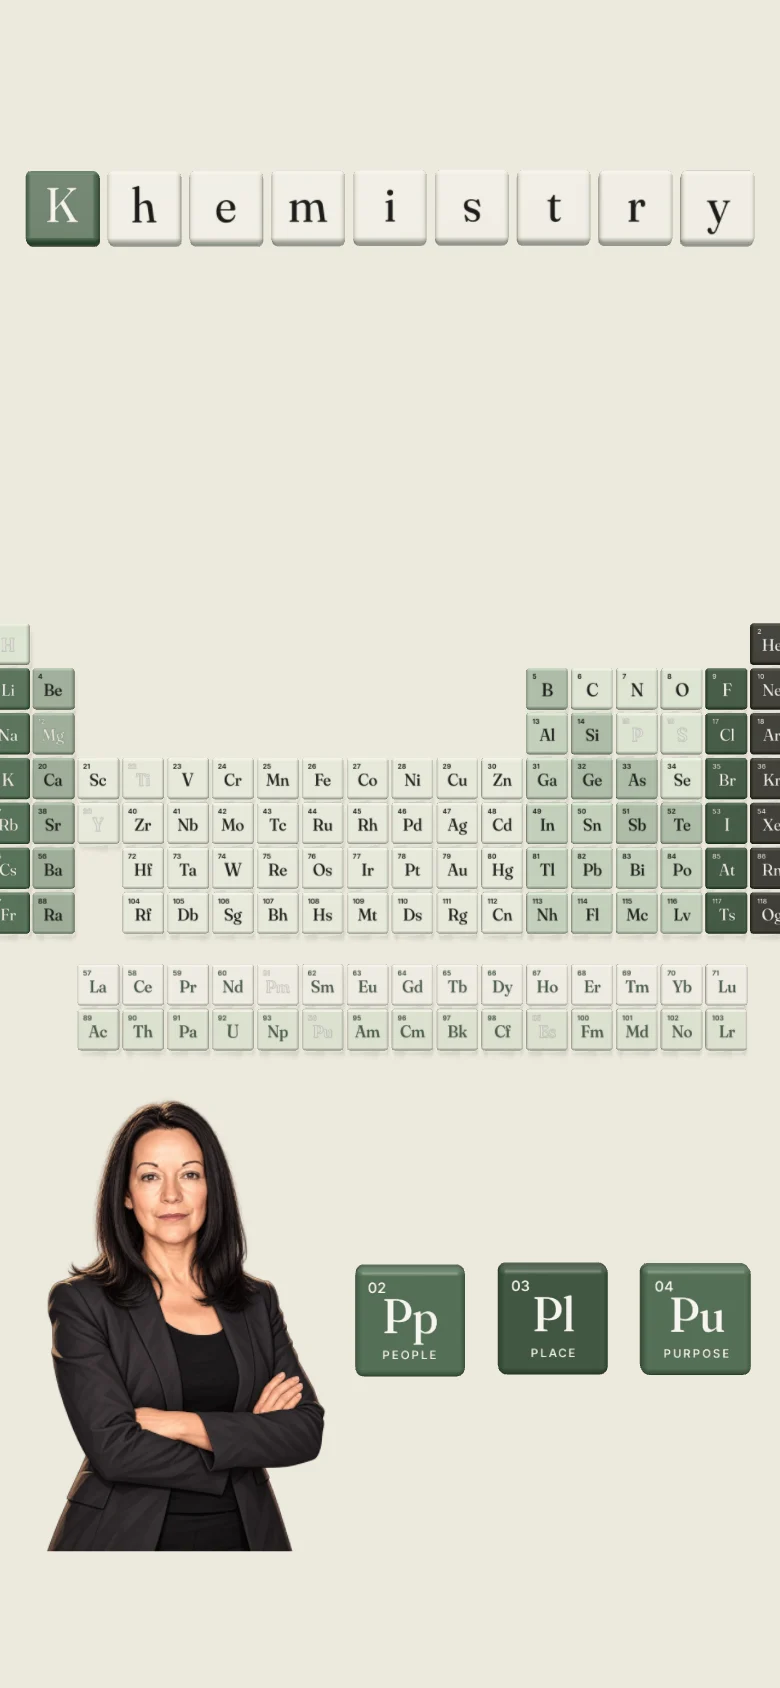
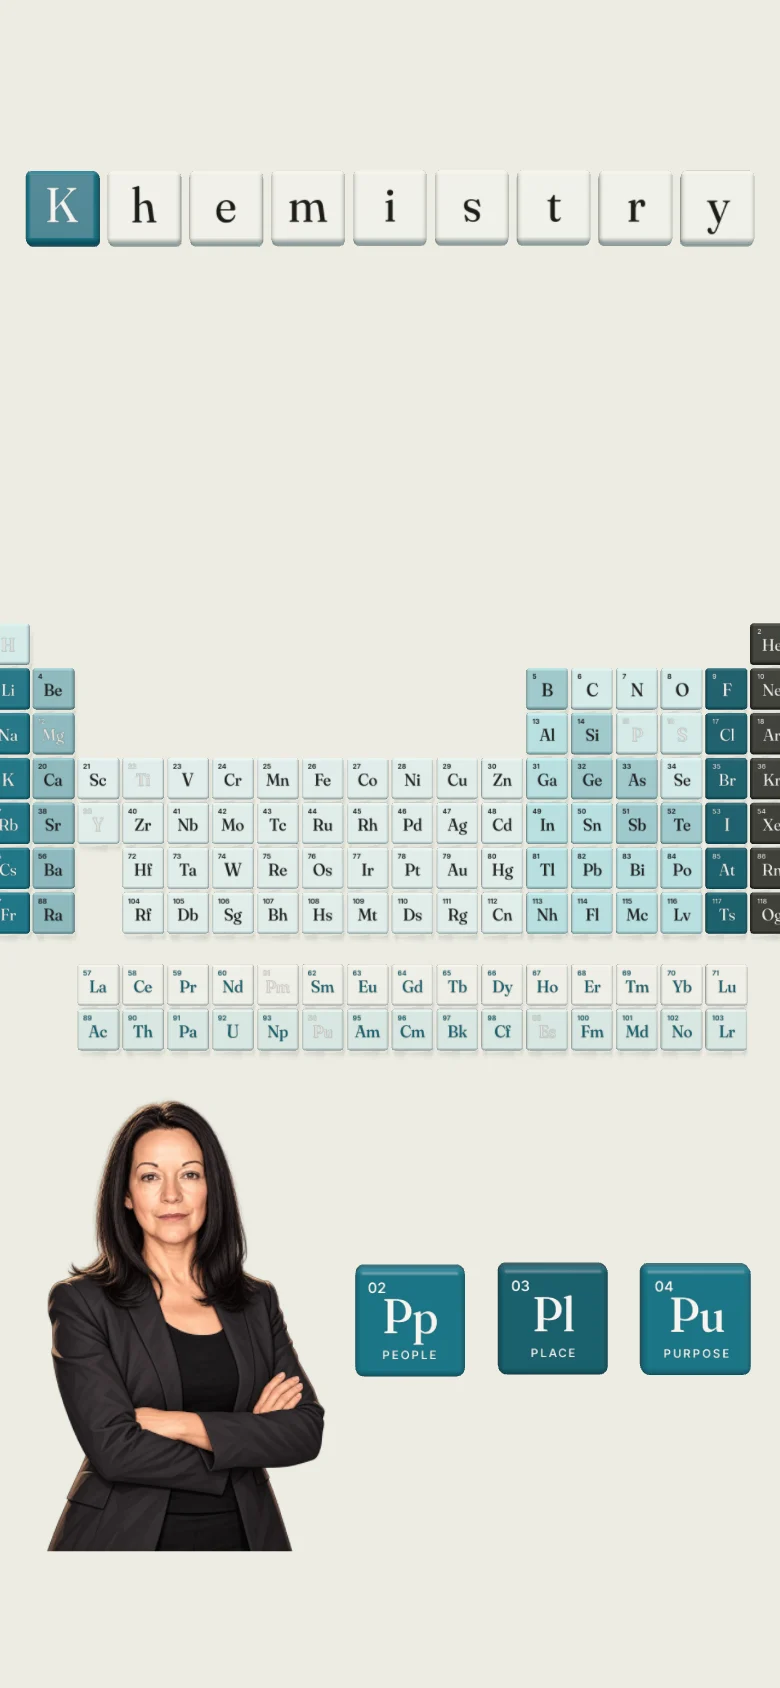
Ocean teal accent (client pick)

diff --git a/css/site.css b/css/site.css
@@ -1,19 +1,19 @@
-/* Khemistry inner pages. Palette B: soft stone + muted sage + near-black.
+/* Khemistry inner pages. Palette B: soft stone + ocean teal + near-black.
    ALL colours live in this one :root block. Change a hex here, then reload (no rebuild needed for CSS/JS).
    The *-rgb triplets must match their hex twin (used for translucent shadows/lines). */
 :root{
   /* --- core palette --- */
   --bg:#EFECE5;           /* page background (stone) */
   --bg-2:#F6F4EF;         /* lighter stone: nav, menu, cards */
-  --accent:#56715B;       /* sage: buttons, links underline, dots */
-  --accent-d:#445A48;     /* darker sage: eyebrows, pull quotes, button hover */
-  --tint-1:#E7EAE1;       /* sage tint: "tint" sections (heroes) */
-  --tint-2:#DCE3D7;       /* sage tint: "glass" sections + glass tiles */
-  --tint-3:#C2CFBF;       /* sage tint: alternate tiles */
+  --accent:#127386;       /* ocean teal: buttons, links underline, dots */
+  --accent-d:#0E5D6C;     /* darker ocean teal: eyebrows, pull quotes, button hover */
+  --tint-1:#E6F1F1;       /* ocean teal tint: "tint" sections (heroes) */
+  --tint-2:#D7EBEC;       /* ocean teal tint: "glass" sections + glass tiles */
+  --tint-3:#B8DDE0;       /* ocean teal tint: alternate tiles */
   --text:#1C1C1A;         /* main text */
   --text-2:#3F3F3B;       /* secondary text */
   --on-accent:#FFFFFF;    /* text on accent buttons */
-  --accent-rgb:86,113,91; --text-rgb:28,28,26; --bg2-rgb:246,244,239; --hi-rgb:255,255,255;
+  --accent-rgb:18,115,134; --text-rgb:28,28,26; --bg2-rgb:246,244,239; --hi-rgb:255,255,255;
   /* --- section background tones (read by js/site.js for the scroll gradient) --- */
   --tone-tint:var(--tint-1); --tone-glass:var(--tint-2); --tone-cream:var(--bg);
   /* --- internal aliases (don't edit; point at the palette above) --- */

diff --git a/EDITING.md b/EDITING.md
@@ -9,8 +9,8 @@ Three files hold everything you'd normally change:
 | Page layout / adding pages | `build.py` | Yes: `python3 build.py` |
 
 ## Change a colour
-1. Open `css/site.css` and edit a hex value in the "core palette" part of `:root`, e.g. `--accent:#56715B;`.
-2. If you change `--accent`, `--text` or `--bg-2`, update its `*-rgb` twin on the same block too (`--accent-rgb:86,113,91;`). Translucent shadows and lines use these.
+1. Open `css/site.css` and edit a hex value in the "core palette" part of `:root`, e.g. `--accent:#127386;`.
+2. If you change `--accent`, `--text` or `--bg-2`, update its `*-rgb` twin on the same block too (`--accent-rgb:18,115,134;`). Translucent shadows and lines use these.
 3. Section backgrounds come from `--tone-tint` (heroes), `--tone-glass` (footer / "whole formula" band) and `--tone-cream` (body). `js/site.js` reads these variables to draw the scroll gradient, so there's no colour in the JS to change.
 4. Keep text contrast at WCAG AA (4.5:1 for body text). `--accent` is only used for buttons, underlines and dots. Text uses `--text`, `--text-2` and `--accent-d`.
 
